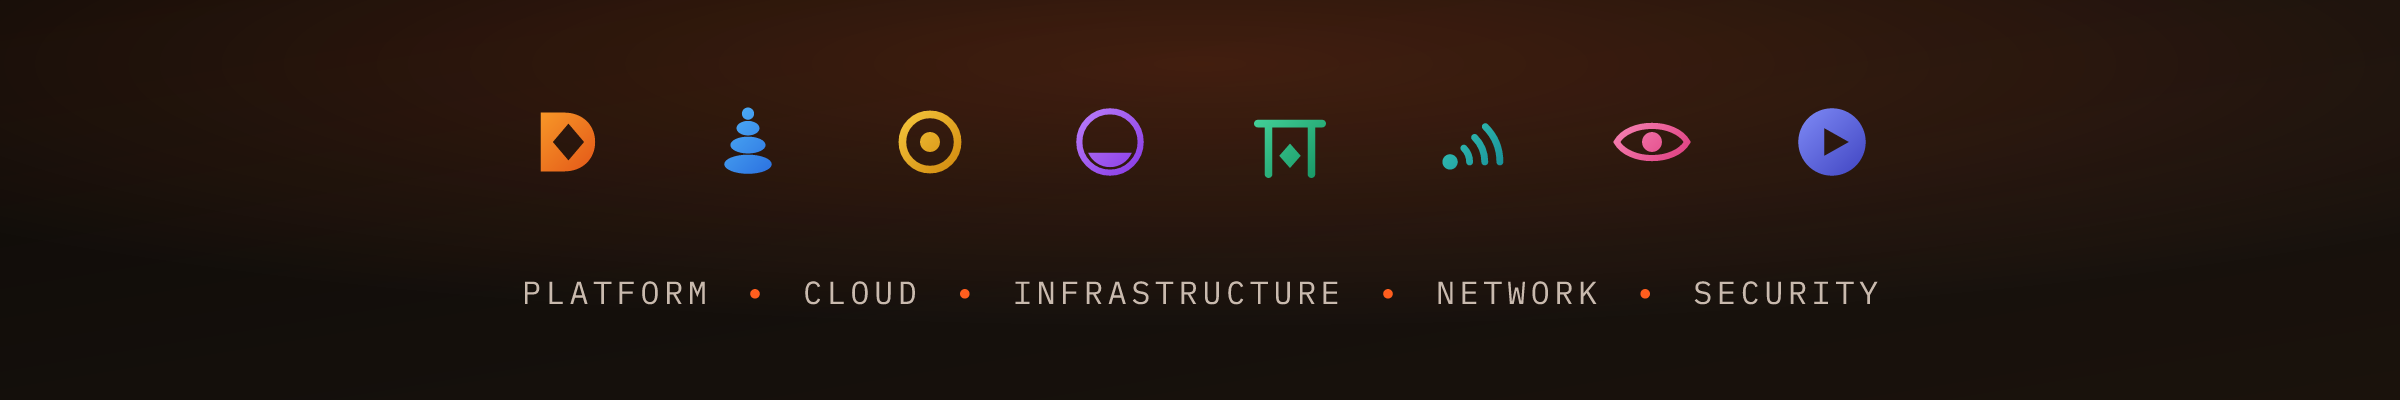
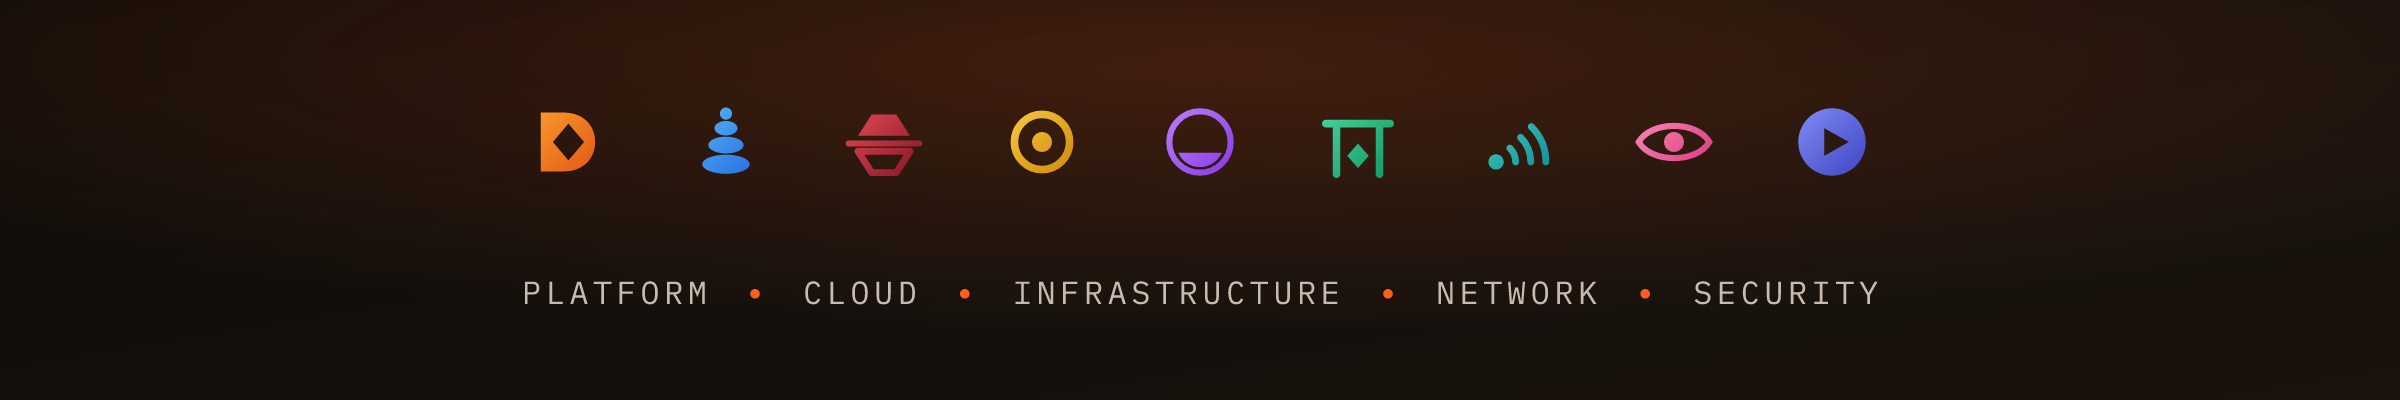
docs: stop repeating the org description, drop the free-forever framing
Four trims, all of them things the profile should not have been saying.

The tagline under the banner duplicated the org description GitHub already
renders directly above the README, so it appeared twice on one screen. Removed
rather than replaced: the banner carries the disciplines and the description
carries the tagline, and a third line between them was just noise.

The "Nothing held back" section promised no paid tier, ever. That is a
commitment the business has not made, and a profile page is a bad place to make
one by accident. Gone from here, from CONTRIBUTING and from SUPPORT, all three
of which had picked up some version of it. What is left is the licence column,
which is a fact rather than a promise.

The intro claimed AI agent tooling as a focus area. True, and deliberately not
said. Same reason agent-skills comes out of the "more in the open" list: the
repo stays public and findable, it just does not get promoted on the front door.

Banner refreshed for the ninth stone, Sitnalta on garnet. It stays out of the
table until there is a repo to link, exactly like Nievah and Noctyr.

Changed region(s): [[0.2812, 0.27, 0.7188, 0.45]]

diff --git a/profile/README.md b/profile/README.md
@@ -2,8 +2,6 @@
 
 ![Magma Moose. Platform, cloud, infrastructure, network and security.](https://raw.githubusercontent.com/MagmaMoose/.github/main/profile/assets/magma-moose-github-banner.png)
 
-**Platform engineering and developer tooling that helps teams ship.**
-
 [![Diatreme][b-diatreme]][diatreme] [![Chargate][b-chargate]][chargate] [![Dün Mir][b-dunmir]][dunmir] [![Caldrith][b-caldrith]][caldrith] [![Brimyr][b-brimyr]][brimyr] [![Dastgate][b-dastgate]][dastgate]
 
 </div>
@@ -14,8 +12,8 @@ products of their own. Today we do both. We take on platform, cloud, network and
 engineering, and we build and maintain our own tools, most of them open source.
 
 The focus is the layer that makes everything else faster and safer to ship: CI/CD and release
-automation, infrastructure as code, testing and code quality, GitHub automation and governance,
-and the tooling growing up around AI agents.
+automation, infrastructure as code, testing and code quality, and GitHub automation and
+governance.
 
 ## The tools
 
@@ -36,20 +34,9 @@ what we prioritise.
 
 There is more in the open beyond the tools that carry a stone of their own.
 [infra](https://github.com/MagmaMoose/infra) is unified infrastructure management,
-[agent-skills](https://github.com/MagmaMoose/agent-skills) is one source of AI agent skills for
-Claude, Codex and in-cluster agents, [homebrew-tap](https://github.com/MagmaMoose/homebrew-tap)
-packages the CLIs, and [github-usage](https://github.com/MagmaMoose/github-usage) turns GitHub
-usage reports into something you can actually read.
-
-## Nothing held back
-
-Every Magma Moose tool is open source and free to run. Read it, fork it, trust it. No key is
-required to ship with it in production.
-
-The open-source version is the whole tool. No features are fenced off, there is no trial clock,
-and there is no paid tier waiting to unlock something you already need. We build these because we
-kept hitting gaps we could not find a good answer to, we build them to our own standard, and then
-we give them away.
+[homebrew-tap](https://github.com/MagmaMoose/homebrew-tap) packages the CLIs, and
+[github-usage](https://github.com/MagmaMoose/github-usage) turns GitHub usage reports into
+something you can actually read.
 
 ## Working with us
 

diff --git a/SUPPORT.md b/SUPPORT.md
@@ -39,10 +39,9 @@ vulnerability privately, and that route gets attention faster than a public issu
 
 ## Engineering work
 
-The tools are free and there is no paid tier, so there is nothing to buy here. The other half of
-Magma Moose is engineering services: platform and DevOps, cloud, infrastructure as code, network,
-security, and monitoring. If you would rather somebody came and fixed the underlying problem than
-filed an issue about a symptom, that is the conversation to have.
+The other half of Magma Moose is engineering services: platform and DevOps, cloud, infrastructure
+as code, network, security, and monitoring. If you would rather somebody came and fixed the
+underlying problem than filed an issue about a symptom, that is the conversation to have.
 
 Email **hello@magmamoose.com**. That is also the address for anything you would rather not discuss
 in public, including procurement questions, security questionnaires, and whether we can support a

diff --git a/CONTRIBUTING.md b/CONTRIBUTING.md
@@ -130,9 +130,6 @@ Contributions are accepted under the licence of the repository you are contribut
 in its `LICENSE` file. Most of the org is MIT, and Dün Mir is Apache-2.0. By opening a pull request
 you confirm you have the right to submit the code under that licence.
 
-There is no paid tier to disappear behind. The open-source version of every Magma Moose tool is
-the whole tool, so what you contribute stays where anyone can use it.
-
 ## Conduct
 
 Everyone taking part is covered by our [Code of Conduct](CODE_OF_CONDUCT.md). It is the
